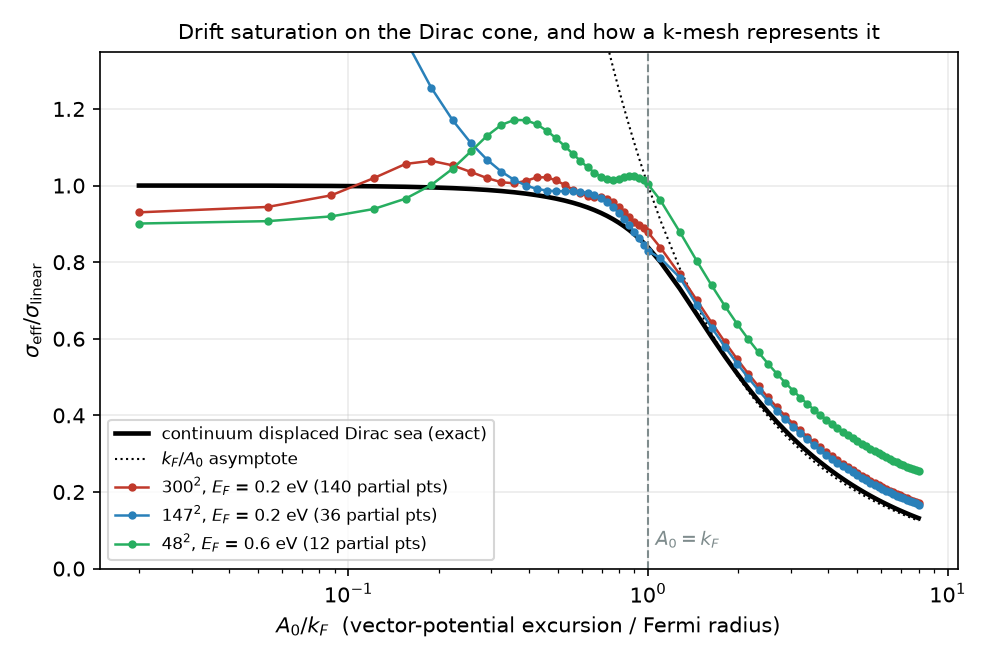
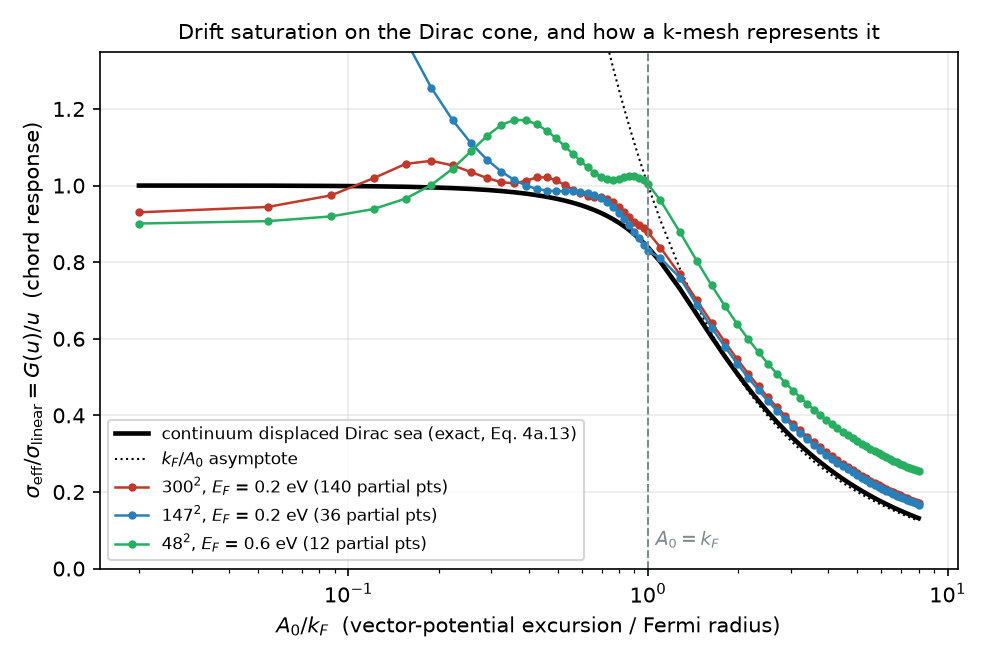
drift_saturation.py: label the plotted ratio as the chord response G(u)/u
The figure and the wiki table plot J(A_0)/A_0 relative to a linear sheet -- what a field
scan measures -- not the differential G'(u), which falls as 1/(4u^3). Docstring, axis
label and legend now say so and quote the exact values G(1) = 8/3pi, G'(1) = 4/3pi and
the duality G(u) = u G(1/u). Figure regenerated.

Claude-Session: https://claude.ai/code/session_01BPmECfuWC7UD3rhcA1hTKp

Changed region(s): [[0.0, 0.3636, 0.0606, 0.7576], [0.0303, 0.1818, 0.0606, 0.3333], [0.4848, 0.6364, 0.6061, 0.6667]]

diff --git a/samples/exercise_x14_graphene_self_induced_transparency/drift_saturation.py b/samples/exercise_x14_graphene_self_induced_transparency/drift_saturation.py
@@ -13,9 +13,14 @@ sheet current of a displaced Fermi disc is
     J(A) = n e v_F * G(A/k_F),      G(u) = (1/pi u_disc) \\int_{|x|<=1} (x_par+u)/|x+u| d^2x,
 
 which is linear at small u and saturates at n e v_F as u -> infinity: the carriers
-cannot drift faster than v_F.  The differential (measured) conductivity is therefore
+cannot drift faster than v_F.  What a field scan measures is the CHORD response -- the
+current the same peak field produces, relative to a linear sheet --
 
-    sigma_eff(E_0)/sigma_lin = G'(A_0/k_F)      ->   k_F/A_0   for A_0 >> k_F,
+    sigma_eff(E_0)/sigma_lin = G(u)/u          ->   k_F/A_0   for A_0 >> k_F,
+
+(the differential response a weak probe on a strong pump would see is G'(u), which
+falls faster, as 1/(4u^3); exact values G(1) = 8/3pi, G'(1) = 4/3pi, and the duality
+G(u) = u G(1/u) -- wiki/12 Eqs. 4a.13-4a.16),
 
 i.e. the sheet becomes transparent as 1/E_0 once the excursion A_0 = |A|_max exceeds
 the Fermi radius k_F = E_F/hbar v_F.  This script evaluates that ratio three ways:
@@ -126,14 +131,14 @@ def main(argv=None):
     except ImportError:
         print('# matplotlib not available -- numbers only'); return 0
     fig, ax = plt.subplots(figsize=(6.6, 4.4))
-    ax.plot(us, cont, 'k-', lw=2.2, label='continuum displaced Dirac sea (exact)')
+    ax.plot(us, cont, 'k-', lw=2.2, label='continuum displaced Dirac sea (exact, Eq. 4a.13)')
     ax.plot(us, 1.0 / np.maximum(us, 1e-9), 'k:', lw=1.0, label=r'$k_F/A_0$ asymptote')
     for (lab, c), col in zip(curves, ('#c0392b', '#2980b9', '#27ae60', '#8e44ad')):
         ax.plot(us, c, 'o-', ms=3, lw=1.2, color=col, label=lab)
     ax.axvline(1.0, ls='--', c='#7f8c8d', lw=1)
     ax.text(1.06, 0.06, '$A_0 = k_F$', color='#7f8c8d', fontsize=9)
     ax.set_xscale('log'); ax.set_xlabel(r'$A_0/k_F$  (vector-potential excursion / Fermi radius)')
-    ax.set_ylabel(r'$\sigma_{\rm eff}/\sigma_{\rm linear}$')
+    ax.set_ylabel(r'$\sigma_{\rm eff}/\sigma_{\rm linear}=G(u)/u$  (chord response)')
     ax.set_title('Drift saturation on the Dirac cone, and how a k-mesh represents it', fontsize=10)
     ax.set_ylim(0, 1.35); ax.grid(alpha=0.25); ax.legend(fontsize=8)
     fig.tight_layout(); fig.savefig(args.out, dpi=150)
